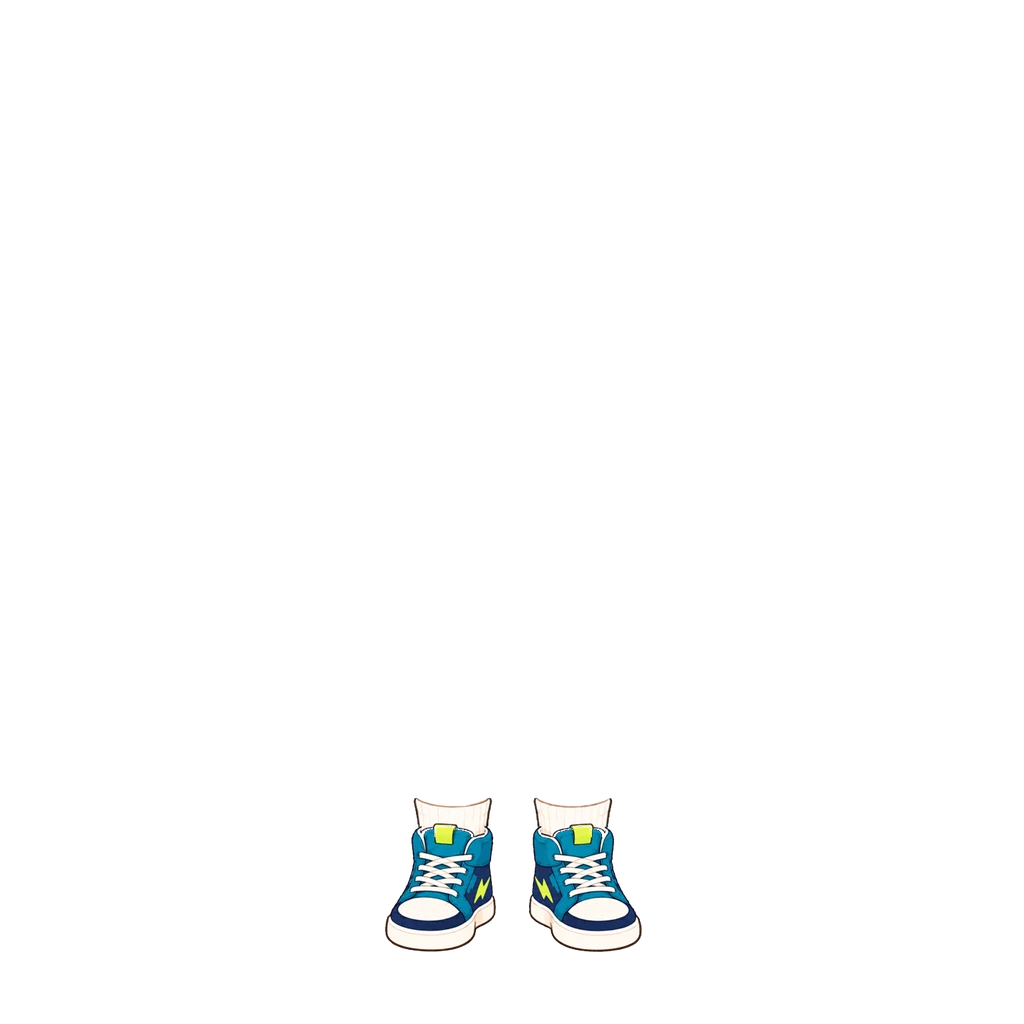
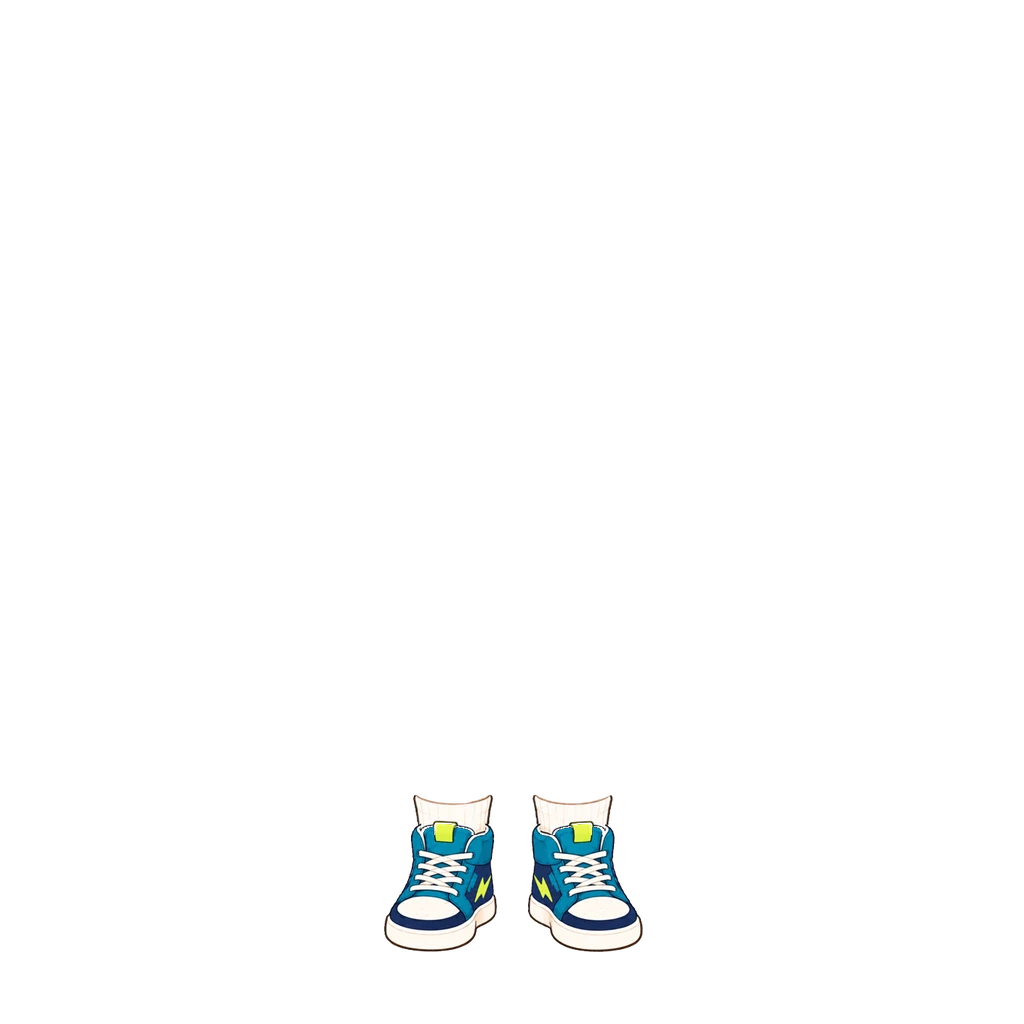
번개 운동화(남아) 2% 크게 (#853)
운동화·양말 함께 2% 크게(신발 배율 0.7141→0.7284). img ?v=8.

Claude-Session: https://claude.ai/code/session_018maNuYqDfFyRSe9uKpZhPR

Changed region(s): [[0.375, 0.7812, 0.625, 0.9062]]

diff --git a/src/data/avatarEquipment.js b/src/data/avatarEquipment.js
@@ -416,8 +416,9 @@ export const AVATAR_CATALOG = [
      [2026-10-03] 양말 위쪽 양옆에 원래 양말 테두리(검은 선)가 남던 것을 정리 — 양말 폭을 줄마다 따로 잡아 떼어냈다. img ?v=4.
      [2026-10-03] 화면 왼쪽 짝 왼쪽으로 2(+2)·오른쪽 짝 오른쪽으로 2(−2). img ?v=5.
      [2026-10-03] 운동화만 1% 크게(배율 0.707), 양말은 크기 그대로 두려고 원화 대비 양말 배율을 1.133/1.01=1.1218 로 다시 만들었다. img ?v=6.
-     [2026-10-03] 운동화만 1% 더 크게(배율 0.7141), 양말 배율은 1.133/1.0201=1.1107 로 맞춰 화면 크기 유지. img ?v=7. */
-  { id: "shoes_lightning", slot: "shoes", label: "번개 운동화",   emoji: "⚡", price:DECOR_PRICE.common, rarity: "common", theme: "common", forGender: "boy", img: "assets/avatar/shoes/lightning-sneakers-boy.webp?v=7", thumb: "assets/avatar/thumb/shoes_lightning.webp" },
+     [2026-10-03] 운동화만 1% 더 크게(배율 0.7141), 양말 배율은 1.133/1.0201=1.1107 로 맞춰 화면 크기 유지. img ?v=7.
+     [2026-10-04] 운동화·양말 함께 2% 크게(신발 배율 0.7284, 양말 비율 그대로). img ?v=8. */
+  { id: "shoes_lightning", slot: "shoes", label: "번개 운동화",   emoji: "⚡", price:DECOR_PRICE.common, rarity: "common", theme: "common", forGender: "boy", img: "assets/avatar/shoes/lightning-sneakers-boy.webp?v=8", thumb: "assets/avatar/thumb/shoes_lightning.webp" },
   /* 썸머 샌들 [2026-10-03] — 남아. 주황 띠 샌들(청록 밑창), 발까지 그려진 원화 352×148. 썸머 웨이브 옷과 짝.
      원화에 발이 그려져 있어 아바타 맨발을 샌들 속 발로 다 덮게 맞췄다. 두 짝을 따로 잘라(짝마다 위아래 딱 맞게)
      원화 뒤끈 가운데(왼짝 x90.5 · 오른짝 x58.5)를 남아 다리 가운데(x450.5 · x574.5)에, 배율 0.74, 왼짝 +2·오른짝 −2,
